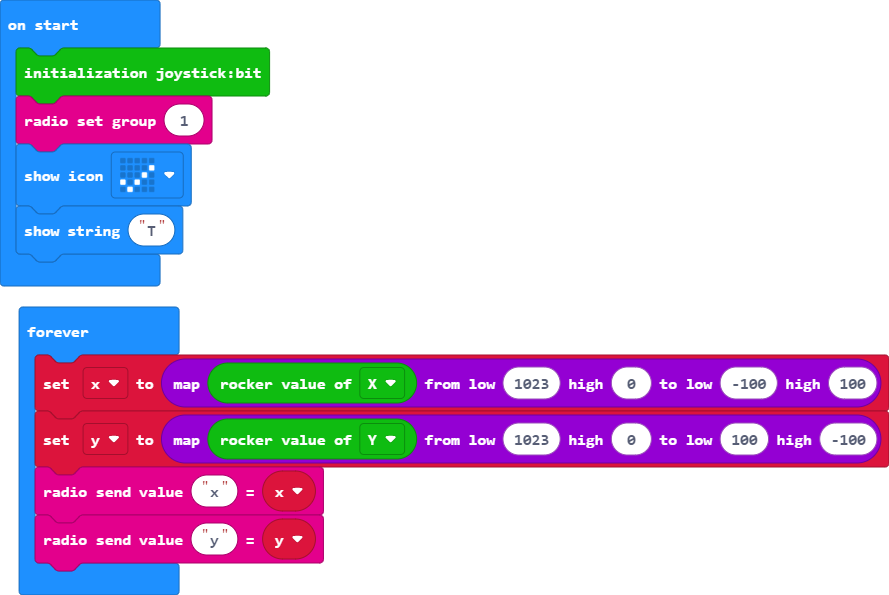
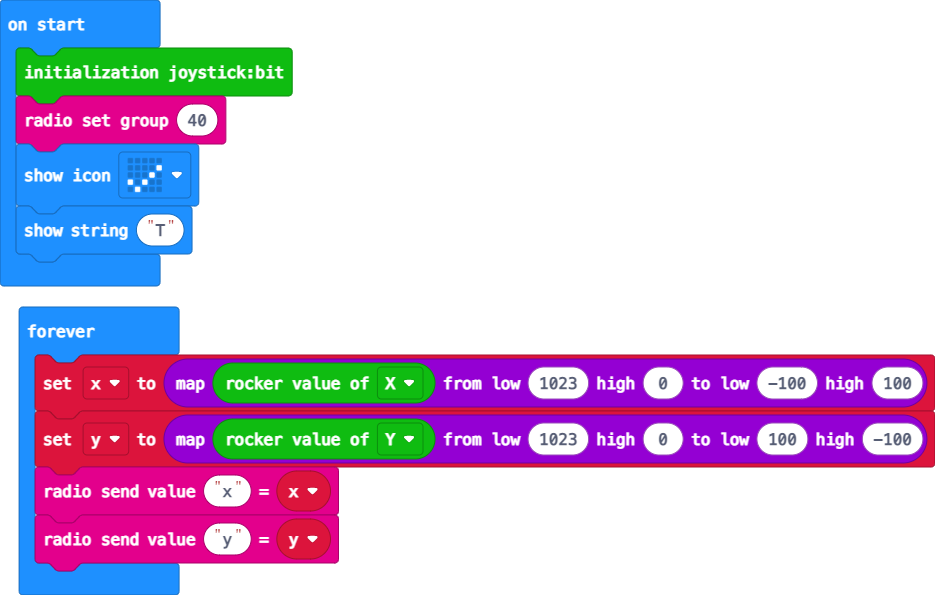
Update main.blocks, main.ts

diff --git a/main.ts b/main.ts
@@ -1,7 +1,7 @@
 let y = 0
 let x = 0
 joystickbit.initJoystickBit()
-radio.setGroup(1)
+radio.setGroup(40)
 basic.showIcon(IconNames.Yes)
 basic.showString("T")
 basic.forever(function () {
